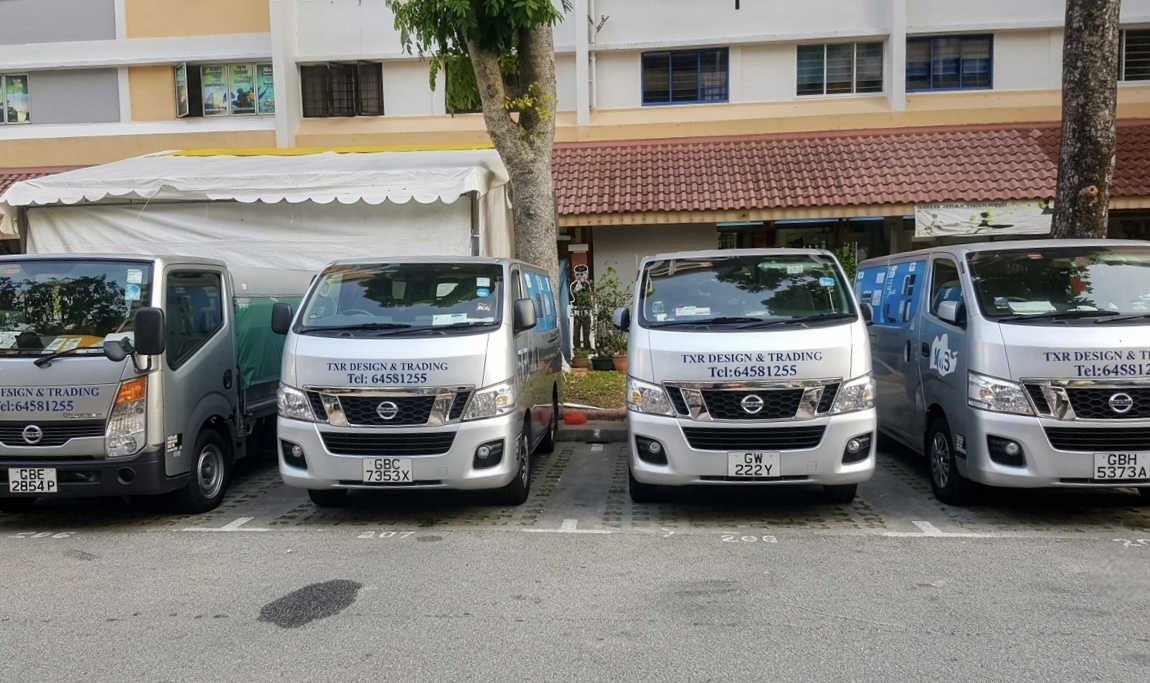
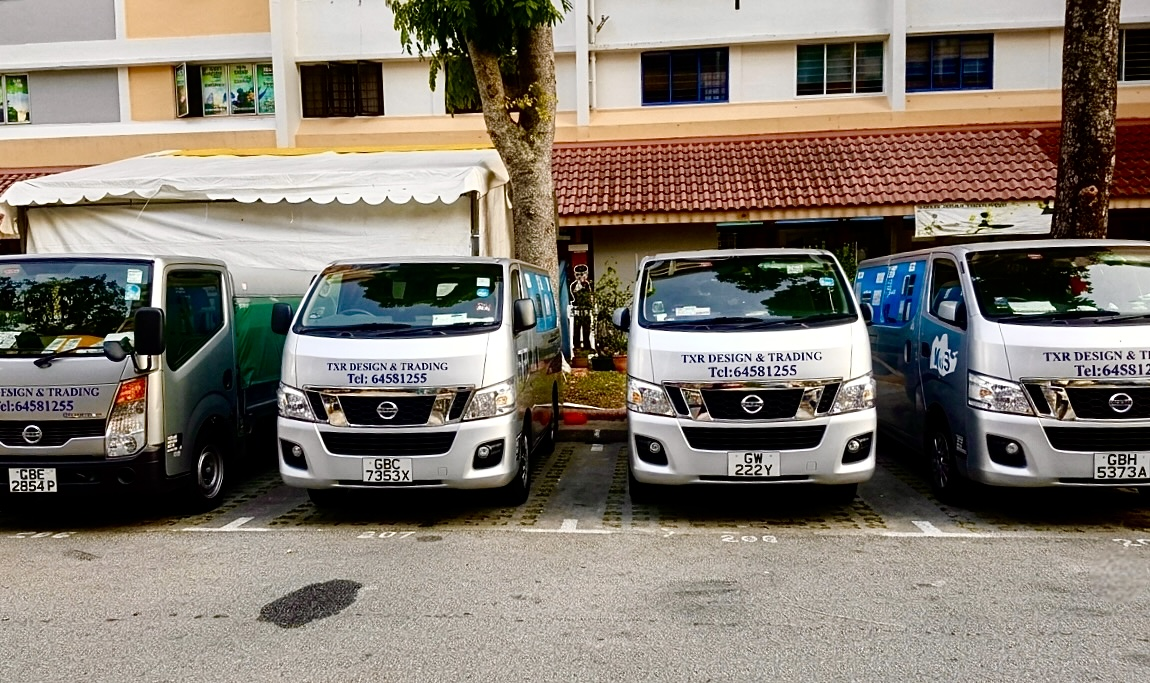
Add lightbox gallery, new photos, and Google Reviews link
Adds a click-to-expand lightbox for carousel images, refreshes carousel
photos, and links the Google Reviews award image to the Google Maps
review page.

diff --git a/index.html b/index.html
@@ -33,43 +33,68 @@
             <img
               class="carousel__slide is-active"
               src="assets/txr-vehicles.jpg"
-              alt="Company Vehicles"
+              alt=""
             >
             <img
               class="carousel__slide"
-              src="assets/hero-plumbing.png"
-              alt="Kian Shen plumbing and home services"
+              src="assets/IMG_9483.jpg"
+              alt=""
+            >
+            <img
+              class="carousel__slide"
+              src="assets/IMG_9486.jpg"
+              alt=""
+            >
+            <img
+              class="carousel__slide"
+              src="assets/IMG_9490.jpg"
+              alt=""
+            >
+            <img
+              class="carousel__slide"
+              src="assets/IMG_9491.jpg"
+              alt=""
+            >
+            <img
+              class="carousel__slide"
+              src="assets/IMG_9494.jpg"
+              alt=""
+            >
+            <img
+              class="carousel__slide"
+              src="assets/watermark images.png"
+              alt=""
+            >
+            <img
+              class="carousel__slide"
+              src="assets/watermark images (1).png"
+              alt=""
+            >
+            <img
+              class="carousel__slide"
+              src="assets/watermark images (2).png"
+              alt=""
+            >
+            <img
+              class="carousel__slide"
+              src="assets/IMG_9459.jpg"
+              alt=""
             >
             <img
               class="carousel__slide"
               src="assets/install-light.jpeg"
-              alt="install light"
+              alt=""
               style="object-fit: cover; object-position: center 20%;"
             >
             <img
               class="carousel__slide"
               src="assets/floor-waterproofing.jpg"
-              alt="painting services"
-            >
-            <img
-              class="carousel__slide"
-              src="assets/plumbing.png"
-              alt="plumbing services"
+              alt=""
             >
             <img
               class="carousel__slide"
               src="assets/electrical-works.jpeg"
-              alt="electrical works"
-            >
-            <!-- <img
-              class="carousel__slide"
-              src="assets/install-bin-chute.png"
-              alt="handyman services"
-            > -->
-            <img
-              class="carousel__slide"
-              src="assets/google-reviews.png"
-              alt="google-reviews"
+              alt=""
             >
           </div>
           <button
@@ -100,8 +125,49 @@
             <button type="button" aria-label="Show image 5"></button>
             <button type="button" aria-label="Show image 6"></button>
             <button type="button" aria-label="Show image 7"></button>
+            <button type="button" aria-label="Show image 8"></button>
+            <button type="button" aria-label="Show image 9"></button>
+            <button type="button" aria-label="Show image 10"></button>
+            <button type="button" aria-label="Show image 11"></button>
+            <button type="button" aria-label="Show image 12"></button>
+            <button type="button" aria-label="Show image 13"></button>
           </div>
         </section>
+
+        <div class="lightbox" id="lightbox" hidden>
+          <button
+            class="lightbox__button lightbox__close"
+            id="lightboxClose"
+            type="button"
+            aria-label="Close image viewer"
+          >
+            <svg viewBox="0 0 24 24" aria-hidden="true">
+              <path d="M18 6 6 18"></path>
+              <path d="m6 6 12 12"></path>
+            </svg>
+          </button>
+          <button
+            class="lightbox__button lightbox__previous"
+            id="lightboxPrevious"
+            type="button"
+            aria-label="Previous image"
+          >
+            <svg viewBox="0 0 24 24" aria-hidden="true">
+              <path d="m15 18-6-6 6-6"></path>
+            </svg>
+          </button>
+          <button
+            class="lightbox__button lightbox__next"
+            id="lightboxNext"
+            type="button"
+            aria-label="Next image"
+          >
+            <svg viewBox="0 0 24 24" aria-hidden="true">
+              <path d="m9 18 6-6-6-6"></path>
+            </svg>
+          </button>
+          <img id="lightboxImage" alt="">
+        </div>
 
         <section class="profile" aria-label="Profile">
           <div class="profile__header">
@@ -252,12 +318,15 @@
                 <path d="M12 2l3.09 6.26L22 9.27l-5 4.87 1.18 6.88L12 17.77l-6.18 3.25L7 14.14 2 9.27l6.91-1.01L12 2z"></path>
               </svg>
             </span>
-            <h2 id="awards-title">Awards &amp; Certifications</h2>
+            <h2 id="awards-title">Awards, Certifications &amp; Testimonials</h2>
           </div>
           <div class="awards-grid">
             <img src="assets/2009-successful-entrepreneur.jpg" alt="STCM 2009 Successful Entrepreneur">
             <img src="assets/today-commemorative-magazine.jpg" alt="Singapore Today Commemorative Magazine">
             <img src="assets/bizsafe-3.jpg" alt="bizSAFE Level 3">
+            <a href="https://www.google.com/maps/search/?api=1&query=Google&query_place_id=ChIJAS9h0uIW2jERsEgqjXnzrWI" target="_blank" rel="noopener noreferrer">
+              <img src="assets/google-reviews.png" alt="Google Reviews">
+            </a>
           </div>
         </section>
 

diff --git a/script.js b/script.js
@@ -65,6 +65,12 @@ const slides = Array.from(document.querySelectorAll(".carousel__slide"));
 const dots = Array.from(document.querySelectorAll("#carouselDots button"));
 const previousSlide = document.querySelector("#previousSlide");
 const nextSlide = document.querySelector("#nextSlide");
+const carouselTrack = document.querySelector("#carouselTrack");
+const lightbox = document.querySelector("#lightbox");
+const lightboxImage = document.querySelector("#lightboxImage");
+const lightboxClose = document.querySelector("#lightboxClose");
+const lightboxPrevious = document.querySelector("#lightboxPrevious");
+const lightboxNext = document.querySelector("#lightboxNext");
 let activeSlide = 0;
 let carouselTimer;
 
@@ -193,6 +199,27 @@ function setSlide(index) {
   startCarousel();
 }
 
+function updateLightboxImage() {
+  lightboxImage.src = slides[activeSlide].src;
+}
+
+function openLightbox(index) {
+  showSlide(index);
+  window.clearInterval(carouselTimer);
+  updateLightboxImage();
+  lightbox.hidden = false;
+}
+
+function closeLightbox() {
+  lightbox.hidden = true;
+  startCarousel();
+}
+
+function showLightboxSlide(index) {
+  showSlide(index);
+  updateLightboxImage();
+}
+
 function renderContact() {
   document.querySelector("#card-name").textContent =
     contact.name;
@@ -253,6 +280,24 @@ dots.forEach((dot, index) => {
 });
 previousSlide.addEventListener("click", () => setSlide(activeSlide - 1));
 nextSlide.addEventListener("click", () => setSlide(activeSlide + 1));
+carouselTrack.addEventListener("click", (event) => {
+  if (event.target.classList.contains("carousel__slide")) {
+    openLightbox(slides.indexOf(event.target));
+  }
+});
+lightboxClose.addEventListener("click", closeLightbox);
+lightboxPrevious.addEventListener("click", () => showLightboxSlide(activeSlide - 1));
+lightboxNext.addEventListener("click", () => showLightboxSlide(activeSlide + 1));
+lightbox.addEventListener("click", (event) => {
+  if (event.target === lightbox) {
+    closeLightbox();
+  }
+});
+document.addEventListener("keydown", (event) => {
+  if (event.key === "Escape" && !lightbox.hidden) {
+    closeLightbox();
+  }
+});
 renderContact();
 renderQrCode();
 startCarousel();

diff --git a/styles.css b/styles.css
@@ -99,6 +99,7 @@ svg {
 }
 
 .carousel__slide {
+  cursor: pointer;
   display: block;
   height: 100%;
   inset: 0;
@@ -170,6 +171,62 @@ svg {
 
 .carousel__dots button.is-active {
   background: white;
+}
+
+.lightbox {
+  align-items: center;
+  background: rgba(18, 18, 18, 0.9);
+  display: flex;
+  inset: 0;
+  justify-content: center;
+  position: fixed;
+  z-index: 10;
+}
+
+.lightbox[hidden] {
+  display: none;
+}
+
+.lightbox img {
+  max-height: 88vh;
+  max-width: 92vw;
+  object-fit: contain;
+}
+
+.lightbox__button {
+  align-items: center;
+  background: rgba(18, 18, 18, 0.58);
+  border: 1px solid rgba(255, 255, 255, 0.28);
+  color: white;
+  cursor: pointer;
+  display: inline-flex;
+  height: 42px;
+  justify-content: center;
+  padding: 0;
+  position: absolute;
+  width: 42px;
+}
+
+.lightbox__button svg {
+  height: 24px;
+  width: 24px;
+}
+
+.lightbox__close {
+  right: 12px;
+  top: 12px;
+}
+
+.lightbox__previous {
+  left: 12px;
+  top: 50%;
+  transform: translateY(-50%);
+}
+
+.lightbox__next {
+  right: 12px;
+  top: 50%;
+  transform: translateY(-50%);
 }
 
 .brand-stack {
